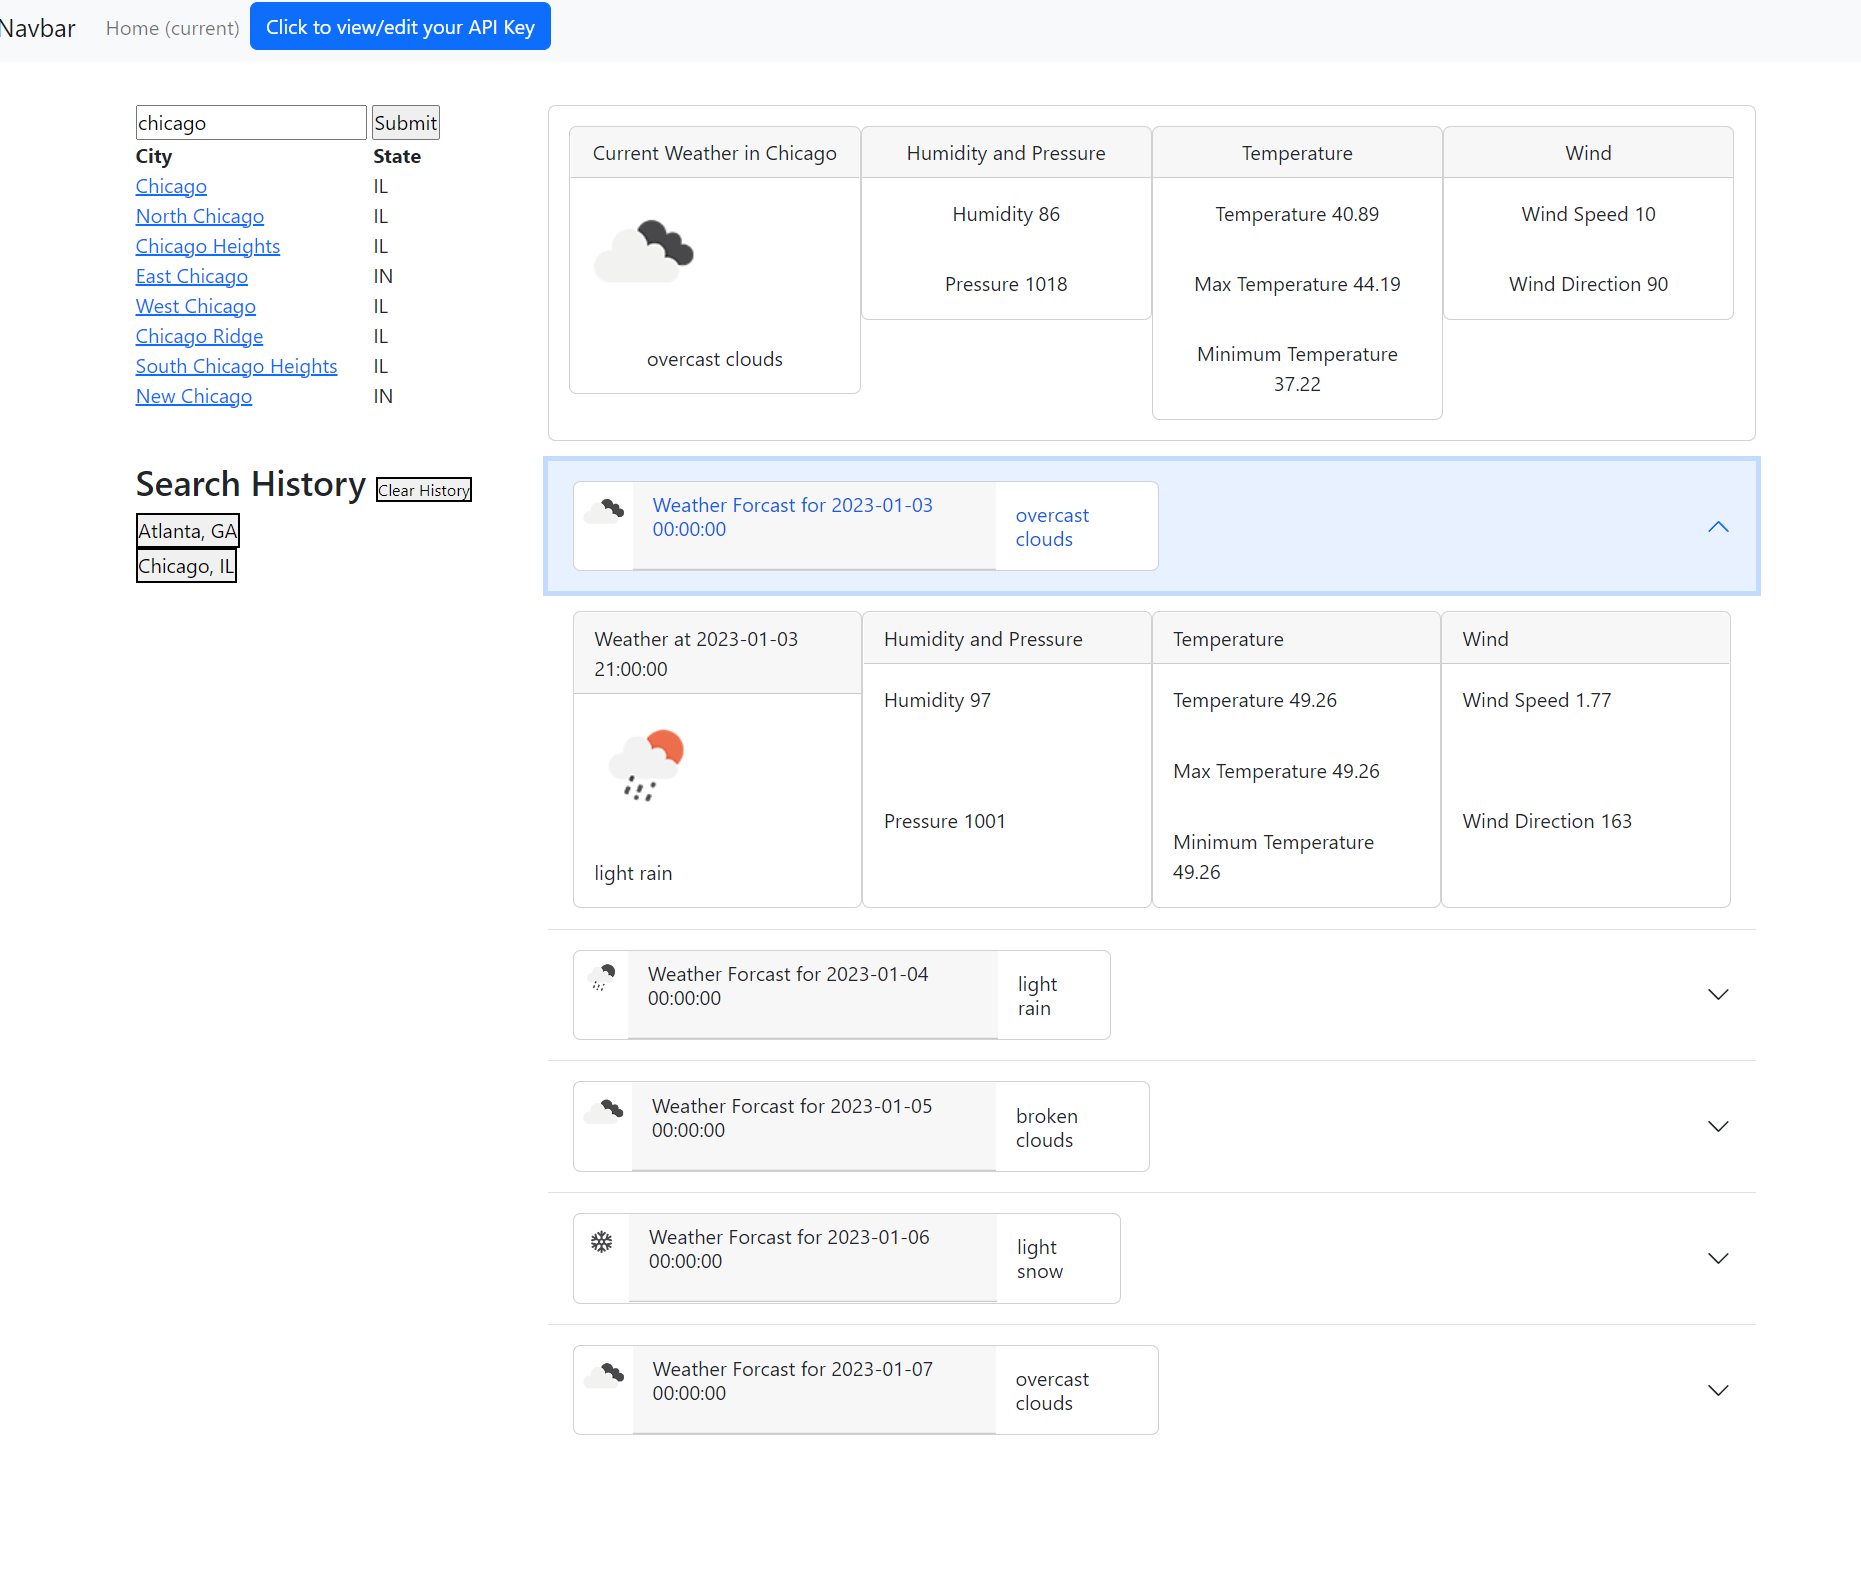
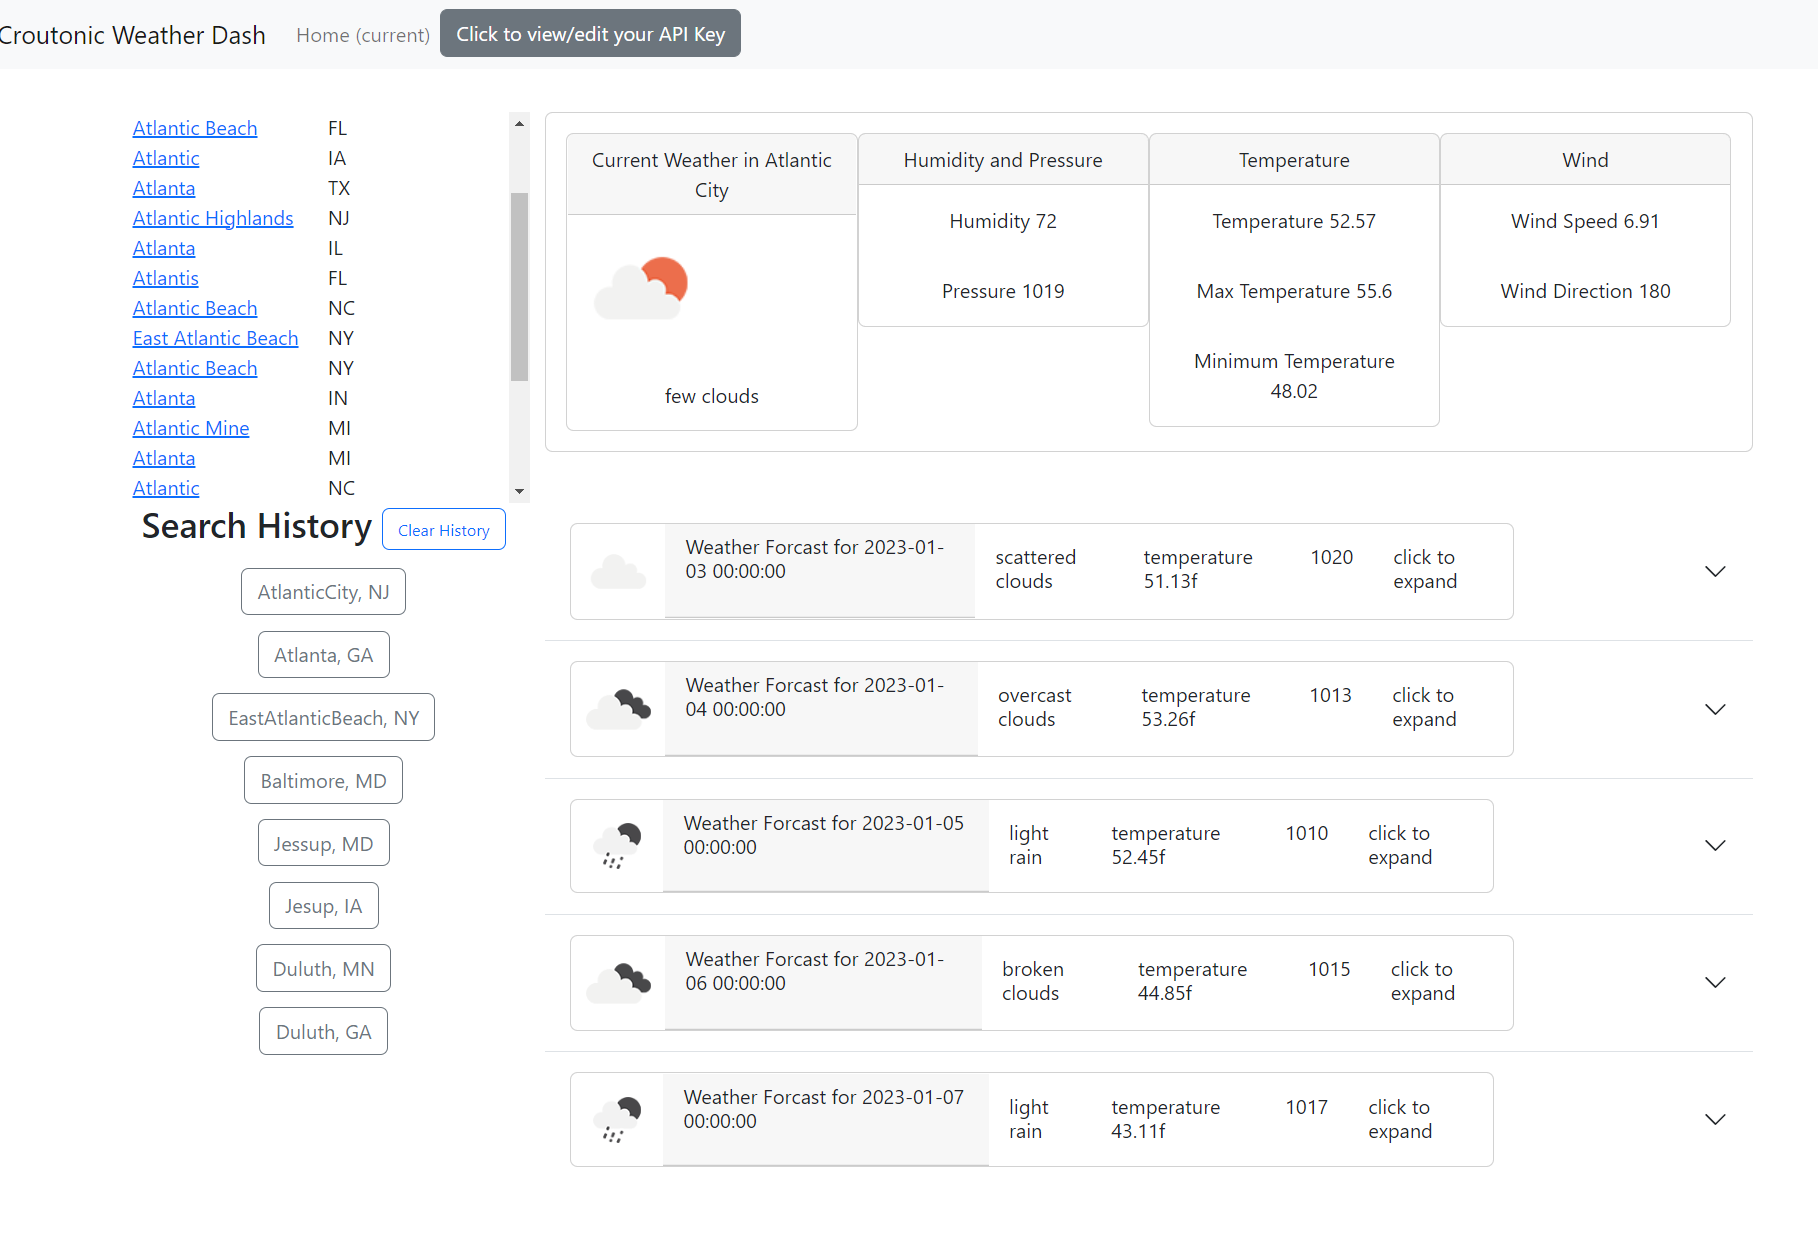
added more styling to the buttons and layout

diff --git a/index.html b/index.html
@@ -12,7 +12,7 @@
   </head>
   <body>
     <nav class="navbar navbar-expand-lg navbar-light bg-light fixed-top">
-        <a class="navbar-brand" href="#">Navbar</a>
+        <a class="navbar-brand">Croutonic Weather Dash</a>
         <button class="navbar-toggler" type="button" data-toggle="collapse" data-target="#navbarSupportedContent" aria-controls="navbarSupportedContent" aria-expanded="false" aria-label="Toggle navigation">
           <span class="navbar-toggler-icon"></span>
         </button>
@@ -22,7 +22,7 @@
               <a class="nav-link" href="#">Home <span class="sr-only">(current)</span></a>
             </li>
             <li class="nav-item">
-              <button id="apiModal" type="button" class="btn btn-primary" data-bs-toggle="modal" data-bs-target="#exampleModal" data-bs-whatever="@fat">
+              <button id="apiModal" type="button" class="btn btn-secondary" data-bs-toggle="modal" data-bs-target="#exampleModal" data-bs-whatever="@fat">
                 Click to view/edit your API Key
               </button>
             </li>
@@ -72,7 +72,7 @@
   </div>
   <div id="searchHistory" class="col-3 history">
     <table id="historyTable">
-      <h3>Search History <button id="clearHistory">Clear History</button></h3>
+      <h3>Search History <button id="clearHistory" class="btn btn-outline-primary">Clear History</button></h3>
     </table>
 </div>
     <div id="forcastDisplay" class="col-9">

diff --git a/Assets/JavaScript/index.js b/Assets/JavaScript/index.js
@@ -153,7 +153,7 @@ function fiveDayFetch (lat, lon){
 function historyFill (weatherHistory) {
  weatherHistory.forEach((element) => {
   $(`#searchHistory`).append(`
-    <td> <button id = "${element.identifierTag}" class = "searchHistory">${element.city},    ${element.state}</button></td>
+    <td> <button id = "${element.identifierTag}" class = "searchHistory btn btn-outline-secondary">${element.city},    ${element.state}</button></td>
   `)
   // the event listner pulls data based on the "identifierTag" from local memory and populatest the weather
   // screen
@@ -261,7 +261,7 @@ userSubmitBtn.on('click', function(event){
           // make function to place clickable history items
           $(`#searchHistory`).empty();
           // this puts the title back into the the search history section
-          $(`#searchHistory`).append(`<h3>Search History <button id="clearHistory">Clear History</button></h3>`);
+          $(`#searchHistory`).append(`<h3>Search History <button class = "btn btn-outline-primary" id="clearHistory">Clear History</button></h3>`);
           let weatherHistory = JSON.parse(localStorage.getItem('weatherHistory'));
           // this creates a history search button and adds event Listener
           historyFill(weatherHistory);

diff --git a/Assets/Style/style.css b/Assets/Style/style.css
@@ -10,8 +10,13 @@
 #searchHistory {
     display: flex;
     flex-direction: column;
+    text-align: center;
     overflow: auto;
-    max-height: 20vh;
+    max-height: 40vh;
+}
+
+.searchHistory {
+    margin: 2%;
 }
 
 #currentWeatherDisplay {
